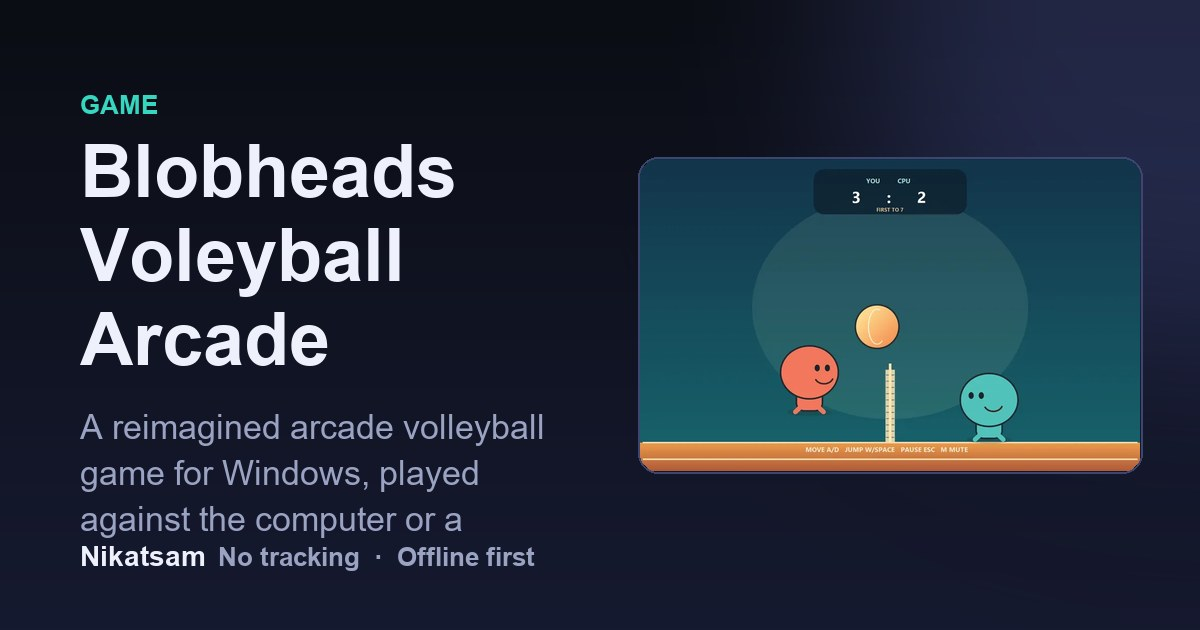
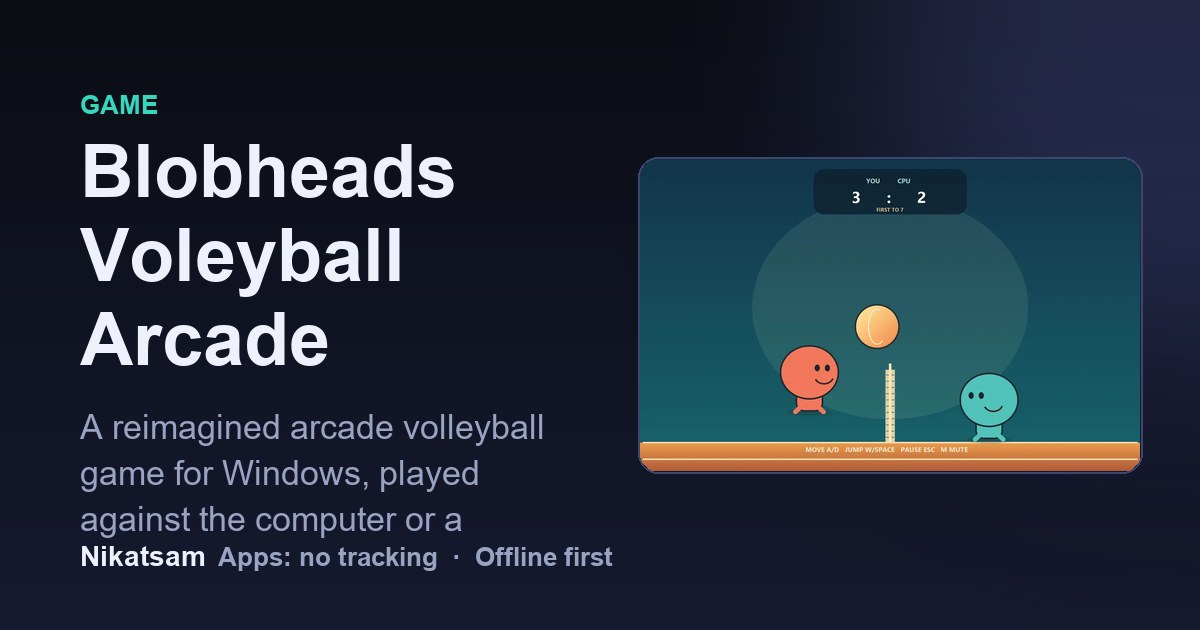
Scope privacy wording to the apps, not the website

Changed region(s): [[0.185, 0.8444, 0.5242, 0.9048]]

diff --git a/privacy-first/index.html b/privacy-first/index.html
@@ -4,7 +4,7 @@
   <meta charset="utf-8">
   <meta name="viewport" content="width=device-width, initial-scale=1">
   <title>Privacy-first tools | Nikatsam</title>
-  <meta name="description" content="Why these Windows tools are built privacy-first: no tracking, no accounts, offline-first where possible, and what this site itself does.">
+  <meta name="description" content="Why the Windows apps I build are privacy-first: no tracking, no accounts and offline-first, and what that means in practice.">
   <link rel="canonical" href="https://nikatsam.github.io/privacy-first/">
   <meta name="robots" content="index, follow">
   <meta name="theme-color" content="#0b0d14">
@@ -45,16 +45,15 @@
       <li><strong>Plain-language policies.</strong> Each app has its own privacy policy. Where one exists, its site links to it.</li>
     </ul>
 
-    <h2>What this website does</h2>
-    <p>This site is a set of static pages hosted on GitHub Pages. It contains no analytics scripts, no advertising, no tracking pixels and no cookies set by me. Images and styles are served from the same site.</p>
+    <h2>About this website</h2>
+    <p>This website is a set of static pages hosted on GitHub Pages. It only describes the apps; the apps are where the privacy promises above apply.</p>
     <p>GitHub, as the host, keeps its own standard server logs under its own privacy policy. I can't turn those off, and I don't have access to them. If you want to know what it records, read <a href="https://docs.github.com/site-policy/privacy-policies/github-general-privacy-statement">GitHub's privacy statement</a>.</p>
-    <p>Traffic figures, if I ever want them, will come from GitHub's own traffic page rather than a third-party analytics service.</p>
 
     <h2>What this page doesn't cover</h2>
     <p>Each app is a separate product with its own policy, and the Microsoft Store has its own terms for downloads and purchases. If something here conflicts with an app's policy, the app's policy is the one that applies to that app.</p>
 
     <h2>Questions or problems</h2>
-    <p>If something in an app or on this site doesn't match what's written here, use the "Report a bug" link on that project's card. That's the public place to raise it.</p>
+    <p>If an app doesn't match what's written here, use the "Report a bug" link on that project's card. That's the public place to raise it.</p>
   </main>
 
   <footer class="site-footer">

diff --git a/index.html b/index.html
@@ -164,9 +164,9 @@
 
     <section class="privacy-strip reveal" aria-label="Privacy summary">
       <ul class="trust-list">
-        <li>No tracking</li>
-        <li>No accounts</li>
-        <li>Offline first</li>
+        <li>Apps: no tracking</li>
+        <li>Apps: no accounts</li>
+        <li>Apps: offline first</li>
       </ul>
       <a class="trust-link" href="privacy-first/">Why it matters &rarr;</a>
     </section>

diff --git a/scripts/build-social.py b/scripts/build-social.py
@@ -77,7 +77,7 @@ def product_card(p):
     draw_text_block(draw, left, y + 26, body_lines, f_body, MUTED, 46)
 
     draw.text((left, H - 90), "Nikatsam", font=f_brand, fill=TEXT)
-    draw.text((left + 138, H - 88), "No tracking  ·  Offline first", font=f_label, fill=MUTED)
+    draw.text((left + 138, H - 88), "Apps: no tracking  ·  Offline first", font=f_label, fill=MUTED)
 
     # Preview on the right, framed with a rounded border
     preview = ROOT / "assets" / "previews" / f"{p['slug']}.webp"
@@ -100,7 +100,7 @@ def site_card(cfg):
     f_title = ImageFont.truetype(FONT_BOLD, 84)
     y = draw_text_block(draw, 80, 190, wrap(draw, "Windows apps and games", f_title, 1000), f_title, TEXT, 98)
     f_body = ImageFont.truetype(FONT, 36)
-    draw_text_block(draw, 80, y + 24, wrap(draw, "Small, useful tools built by one developer. No tracking, no accounts, offline first.", f_body, 1000), f_body, MUTED, 50)
+    draw_text_block(draw, 80, y + 24, wrap(draw, "Small, useful Windows tools built by one developer. The apps have no tracking, no accounts and work offline.", f_body, 1000), f_body, MUTED, 50)
     return img
 
 
